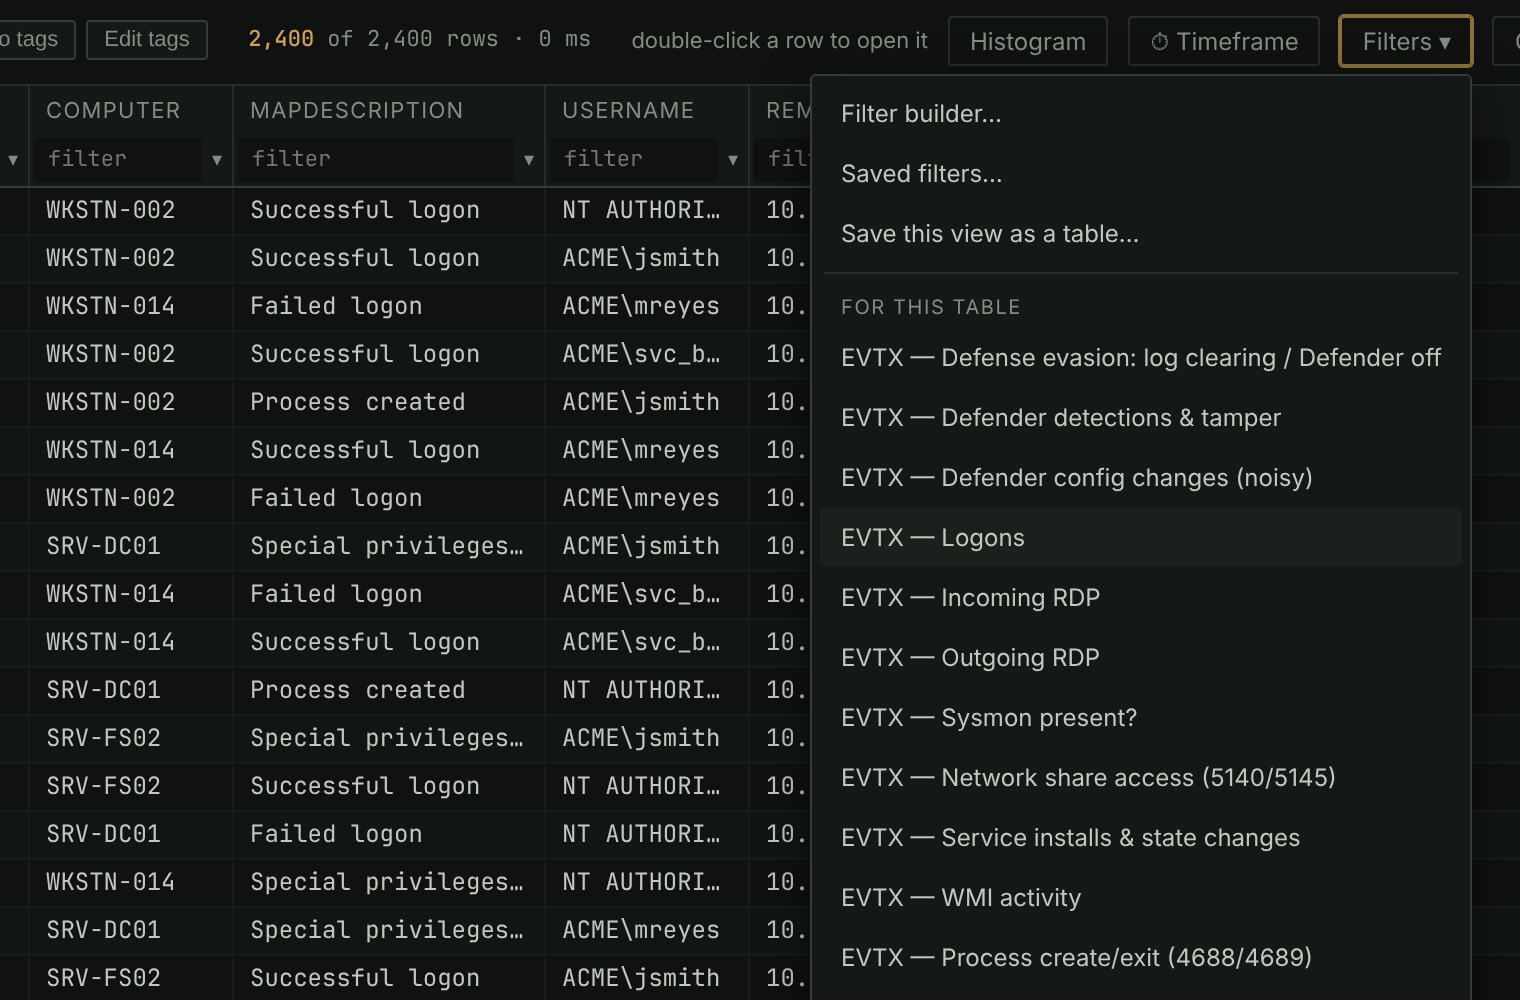
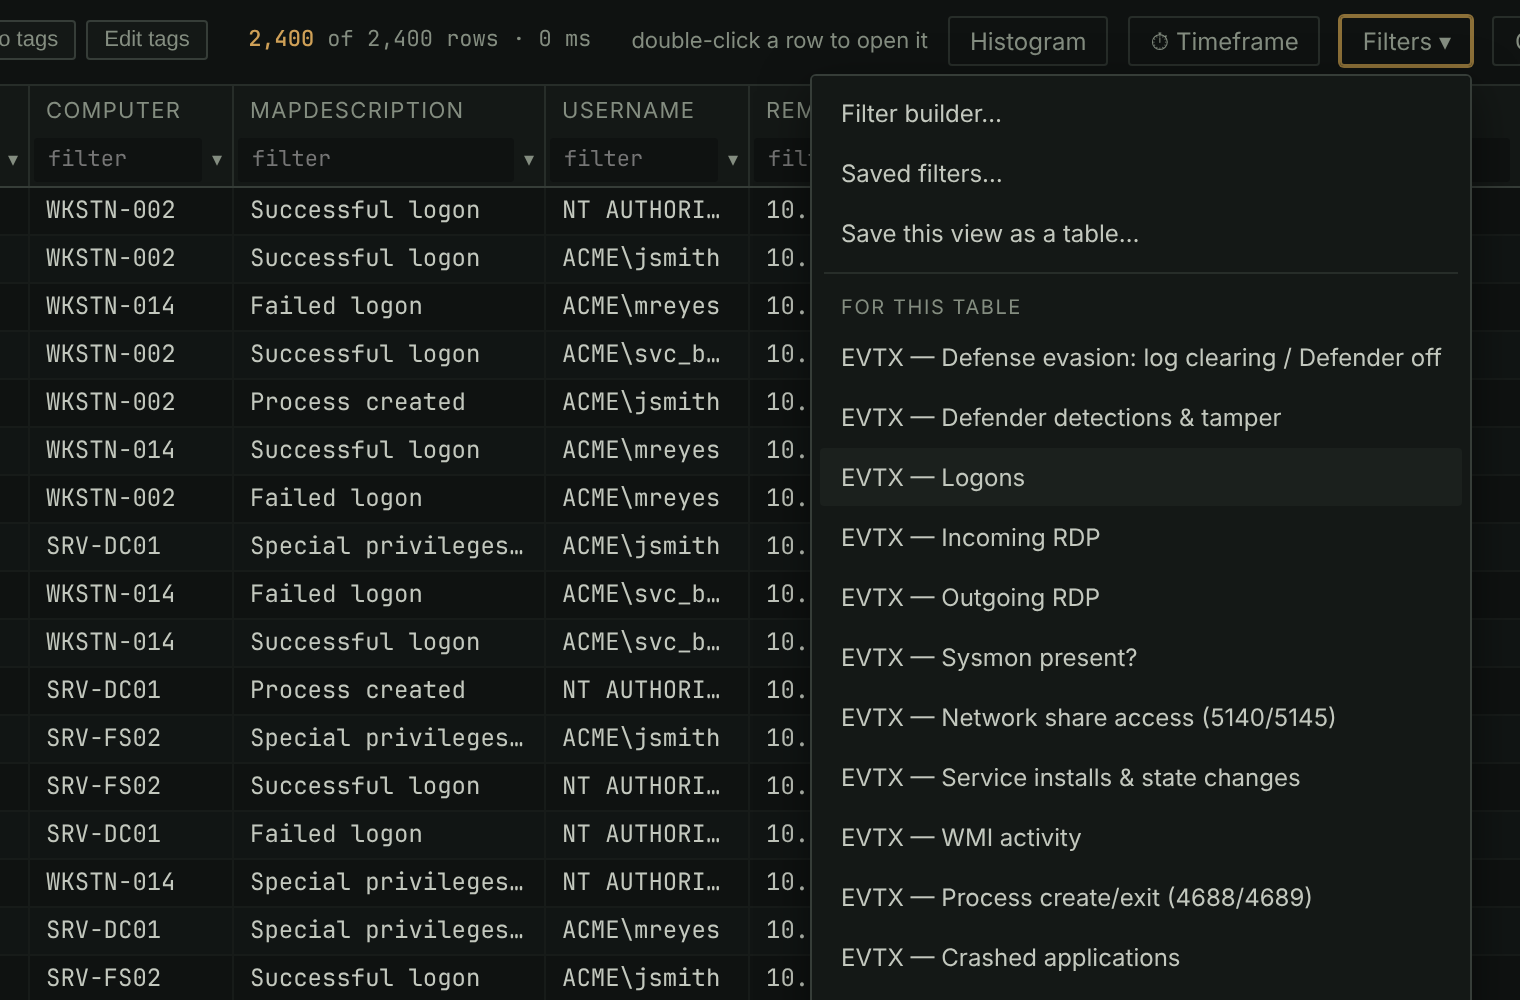
Stop shipping the noisy Defender config-changes filter
"EVTX — Defender config changes (noisy)" leaves the shipped triage set,
and leaves every workspace that still holds it exactly as it shipped.

Dropping it from defaults/filters.json alone would only reach new
installs: every existing workspace was seeded with it long ago, and
seeded filters are ordinary records from then on. So filters.json gains
a `retired` list, the entry moves there unchanged, and
SavedFilters.ensure_seeded removes a copy whose name, columns and
payload still match. One the analyst edited or renamed is theirs and
stays. Each retirement is recorded in the workspace file and runs once,
so a copy imported back later from an older export is kept.

Docs and the site's recordings now count 27 shipped filters, 19 of them
for EvtxECmd.

Claude-Session: https://claude.ai/code/session_01Uy3ebGBfZJJ8w4btrYMHEJ

diff --git a/docs/site/overrides/home.html b/docs/site/overrides/home.html
@@ -57,7 +57,7 @@
         <div class="wn-feature__text">
           <h3>Saved filters</h3>
           <p>Saved once, offered on every table with the same columns.
-            28 ship for EvtxECmd, RECmd and MFTECmd output, and
+            27 ship for EvtxECmd, RECmd and MFTECmd output, and
             <kbd>[</kbd> <kbd>]</kbd> step through them.</p>
           <a class="wn-feature__more" href="{{ 'features/saved-filters/' | url }}">See it in action</a>
         </div>

diff --git a/tests/test_workspace.py b/tests/test_workspace.py
@@ -303,7 +303,7 @@ def _bump_filters(monkeypatch, extra=()):
     from winnow import defaults
     shipped = defaults.filters()
     monkeypatch.setattr(defaults, "filters", lambda: {
-        "version": shipped["version"] + 1,
+        **shipped, "version": shipped["version"] + 1,
         "filters": list(shipped["filters"]) + list(extra)})
 
 
@@ -361,6 +361,88 @@ def test_a_workspace_seeded_before_the_record_existed_is_recorded_at_its_version
     assert "seeded" in json.loads(path.read_text(encoding="utf-8"))
     _bump_filters(monkeypatch)
     assert victim["name"] not in [f["name"] for f in WS.filters.list()]
+
+
+# What a release that TAKES BACK a default does: its entry moves from
+# `filters` to `retired` unchanged, at the same version.
+
+def _retire_filters(monkeypatch, names):
+    from winnow import defaults
+    shipped = defaults.filters()
+    taken = [e for e in shipped["filters"] if e[0] in names]
+    assert len(taken) == len(names)
+    monkeypatch.setattr(defaults, "filters", lambda: {
+        "version": shipped["version"],
+        "filters": [e for e in shipped["filters"] if e[0] not in names],
+        "retired": list(shipped["retired"]) + taken})
+
+
+def test_a_retired_default_filter_leaves_only_where_it_is_untouched(monkeypatch):
+    """Removing a default from the shipped list alone changes nothing for
+    anyone already running Winnow: theirs was seeded long ago. So the
+    untouched copy goes on the next read — but an edited or renamed one
+    is the analyst's filter now, and stays."""
+    before = WS.filters.list()
+    untouched, edited, renamed = before[0], before[1], before[2]
+    WS.filters.update(edited["id"], payload={**edited["payload"], "search": "mine"})
+    WS.filters.update(renamed["id"], name="MY triage")
+
+    _retire_filters(monkeypatch, {untouched["name"], edited["name"], renamed["name"]})
+    names = [f["name"] for f in WS.filters.list()]
+    assert untouched["name"] not in names
+    assert names.count(edited["name"]) == 1
+    assert names.count("MY triage") == 1 and renamed["name"] not in names
+    assert len(names) == len(before) - 1
+
+
+def test_a_retired_default_filter_imported_back_afterwards_stays(monkeypatch):
+    """A retirement runs once per workspace. Importing the filter back from
+    an export made before it is the analyst asking for it, and the next
+    read must not take it away again."""
+    before = WS.filters.list()
+    export = WS.filters.export_all()
+    gone = before[0]["name"]
+
+    _retire_filters(monkeypatch, {gone})
+    assert gone not in [f["name"] for f in WS.filters.list()]
+    assert WS.filters.import_all(export, merge=True) == 1
+    assert [f["name"] for f in WS.filters.list()].count(gone) == 1
+
+
+def test_the_noisy_defender_config_filter_is_retired():
+    """"EVTX — Defender config changes (noisy)" was taken out of the
+    shipped set. A fresh workspace never gets it, and one an earlier
+    release seeded loses its untouched copy on the next read."""
+    import json
+    from winnow import defaults
+
+    name = "EVTX — Defender config changes (noisy)"
+    assert name not in [n for n, _, _ in defaults.filters()["filters"]]
+    assert name not in [f["name"] for f in WS.filters.list()]
+
+    # The workspace as the earlier release left it: the filter as it
+    # shipped, recorded in `seeded`, no retirement handled yet.
+    [(_, cols, payload)] = [r for r in defaults.filters()["retired"] if r[0] == name]
+    path = WS.WORKSPACE_DIR / WS.SavedFilters.FILE
+    data = json.loads(path.read_text(encoding="utf-8"))
+    data.pop("retired")
+    data["filters"].insert(2, {"id": 999, "name": name, "col_names": cols,
+                               "payload": payload, "created_at": "2026-01-01T00:00:00"})
+    data["seeded"].append([name, cols])
+    path.write_text(json.dumps(data), encoding="utf-8")
+
+    after = WS.filters.list()
+    assert name not in [f["name"] for f in after]
+    assert len(after) == len(data["filters"]) - 1
+
+
+def test_no_shipped_filter_is_also_retired():
+    """An entry in both lists would be seeded into a fresh workspace and
+    taken out of every older one — moving it means moving it."""
+    from winnow import defaults
+    shipped = defaults.filters()
+    assert not ({(n, tuple(c)) for n, c, _ in shipped["filters"]}
+                & {(n, tuple(c)) for n, c, _ in shipped["retired"]})
 
 
 def test_tag_template_seeds_ta_first_and_migrates_only_untouched_legacy():

diff --git a/winnow/workspace.py b/winnow/workspace.py
@@ -416,6 +416,33 @@ def _merge_seed_record(data: dict, keys: list[list]) -> list:
     return out
 
 
+def _retire_filters(data: dict, retired: list) -> list | None:
+    """Drops each retired default (defaults.filters()["retired"]) this
+    workspace still holds exactly as it shipped — same name, same column
+    set, same payload — and returns the updated `retired` record, or None
+    when every retirement has been handled here before.
+
+    Only an untouched copy goes: one the analyst renamed or edited is
+    their filter now, the same rule TagTemplate's legacy migration
+    follows. And each retirement runs once per workspace, recorded by
+    name + column set like `seeded`, so a copy imported back afterwards
+    from an older export is the analyst's choice and stays."""
+    record = [k for k in data.get("retired") or [] if isinstance(k, list)]
+    handled = {_freeze(k) for k in record}
+    new = [(name, list(cols), payload) for name, cols, payload in retired
+           if _freeze([name, list(cols)]) not in handled]
+    if not new:
+        return None
+    shipped = {(name, tuple(cols)): payload for name, cols, payload in new}
+
+    def untouched(f: dict) -> bool:
+        key = (f.get("name"), tuple(f.get("col_names") or ()))
+        return key in shipped and f.get("payload") == shipped[key]
+
+    data["filters"] = [f for f in data["filters"] if not untouched(f)]
+    return record + [[name, cols] for name, cols, _ in new]
+
+
 class SavedFilters:
     """Cyclable, named filters — [ and ] in the grid. Every filter carries
     the column-name set it was built for (col_names), which is also what
@@ -430,13 +457,15 @@ class SavedFilters:
         return _read(self.FILE, {"filters": []})["filters"]
 
     def _save(self, items: list[dict], seeded_version: int | None = None,
-              seeded: list | None = None) -> None:
+              seeded: list | None = None, retired: list | None = None) -> None:
         data = _read(self.FILE, {"filters": []})
         data["filters"] = items
         if seeded_version is not None:
             data["seeded_version"] = seeded_version
         if seeded is not None:
             data["seeded"] = seeded
+        if retired is not None:
+            data["retired"] = retired
         _write(self.FILE, data)
 
     def ensure_seeded(self) -> None:
@@ -454,15 +483,21 @@ class SavedFilters:
         that by what is *present* instead — the old rule — put back every
         default the analyst had deleted, and re-added every one they had
         renamed beside the renamed copy, the first time a release bumped
-        the version. See _seed_record for the one-off migration."""
+        the version. See _seed_record for the one-off migration.
+
+        A default the release takes back (`retired`) leaves the workspace
+        here too, while it is still the untouched copy — _retire_filters."""
         from . import defaults
 
         with _LOCK:
             data = _read(self.FILE, {"filters": []})
             shipped = defaults.filters()
+            retired = _retire_filters(data, shipped["retired"])
             keys = [[name, list(cols)] for name, cols, _ in shipped["filters"]]
             done = _seed_record(data, shipped["version"], keys)
             if done is None:
+                if retired is not None:
+                    self._save(data["filters"], retired=retired)
                 return
             items = data["filters"]
             present = {(r["name"], tuple(r["col_names"])) for r in items}
@@ -474,7 +509,7 @@ class SavedFilters:
                               "col_names": list(cols), "payload": payload,
                               "created_at": _now()})
             self._save(items, seeded_version=max(shipped["version"], data.get("seeded_version", 0)),
-                       seeded=_merge_seed_record(data, keys))
+                       seeded=_merge_seed_record(data, keys), retired=retired)
 
     @staticmethod
     def _normalize_payload(rec: dict) -> bool:

diff --git a/winnow/defaults/__init__.py b/winnow/defaults/__init__.py
@@ -28,9 +28,12 @@ Both files carry a `version`. Bump it when you add entries: workspace's
 in the workspace file) and on a bump adds only the ones it never has, so
 an analyst's deleted default stays deleted and a renamed one is never
 re-added beside itself. Renaming an entry HERE therefore reads as a new
-default to every workspace — which is what it is. Never edit an
-existing header set in place — files produced by an older release of the
-tool are still out there and still have to match.
+default to every workspace — which is what it is. To take a filter
+back, move its entry from `filters` to `retired` unchanged; that needs
+no bump, since workspaces record retirements on their own (`retired`,
+see SavedFilters.ensure_seeded). Never edit an existing header set in
+place — files produced by an older release of the tool are still out
+there and still have to match.
 """
 
 from __future__ import annotations
@@ -176,21 +179,32 @@ def profiles() -> list[dict]:
 
 @lru_cache(maxsize=1)
 def filters() -> dict:
-    """{"version": int, "filters": [(name, [columns], payload), ...]}.
+    """{"version": int, "filters": [(name, [columns], payload), ...],
+    "retired": [(name, [columns], payload), ...]}.
 
     `header_set` is resolved to that set's column list here, so a filter
-    and the table it targets cannot describe different columns."""
+    and the table it targets cannot describe different columns.
+
+    `retired` is the defaults an earlier release shipped and this one
+    takes back, each exactly as it shipped: SavedFilters.ensure_seeded
+    removes a workspace's copy only while it still matches, so one the
+    analyst edited or renamed is theirs and stays."""
     data = _load(FILTERS_FILE)
     by_name = dict(headers()["nicknames"])
-    out = []
-    for i, rec in enumerate(data.get("filters") or []):
-        name, hs, payload = rec.get("name"), rec.get("header_set"), rec.get("payload")
-        if not name or not payload:
-            raise DefaultsError(f"filters.json entry {i} needs a name and a payload")
-        cols = by_name.get(hs)
-        if cols is None:
-            raise DefaultsError(
-                f"filter {name!r} targets header set {hs!r}, which headers.json "
-                f"does not define — a filter bound to nothing would never apply")
-        out.append((name, list(cols), payload))
-    return {"version": int(data.get("version") or 0), "filters": out}
+
+    def resolve(key: str) -> list:
+        out = []
+        for i, rec in enumerate(data.get(key) or []):
+            name, hs, payload = rec.get("name"), rec.get("header_set"), rec.get("payload")
+            if not name or not payload:
+                raise DefaultsError(f"filters.json {key} entry {i} needs a name and a payload")
+            cols = by_name.get(hs)
+            if cols is None:
+                raise DefaultsError(
+                    f"filter {name!r} targets header set {hs!r}, which headers.json "
+                    f"does not define — a filter bound to nothing would never apply")
+            out.append((name, list(cols), payload))
+        return out
+
+    return {"version": int(data.get("version") or 0), "filters": resolve("filters"),
+            "retired": resolve("retired")}

diff --git a/docs/wiki/Filtering-and-searching.md b/docs/wiki/Filtering-and-searching.md
@@ -145,11 +145,11 @@ Applying a saved filter replaces the builder's conditions, the search and the gr
 
 ### Shipped triage filters
 
-Winnow ships 28 ready-made triage filters for EvtxECmd, RECmd and MFTECmd output. They are added to your saved filters the first time Winnow runs, and they are offered like any other saved filter: nothing is applied until you pick one. If you delete or rename one, it stays that way.
+Winnow ships 27 ready-made triage filters for EvtxECmd, RECmd and MFTECmd output. They are added to your saved filters the first time Winnow runs, and they are offered like any other saved filter: nothing is applied until you pick one. If you delete or rename one, it stays that way. When an update stops shipping one, it leaves your list too, unless you edited or renamed it.
 
 | Column set | Filters |
 | --- | --- |
-| Event logs (EvtxECmd) | 20 filters named `EVTX — …`: log clearing and Defender off; Defender detections and tamper; Defender config changes; logons; incoming and outgoing RDP; Sysmon present; network share access (5140/5145); service installs; WMI; process create/exit (4688/4689); crashed applications; user and group changes; PowerShell; firewall rule changes; scheduled tasks; BITS transfers; Group Policy (client and DC); system shutdowns |
+| Event logs (EvtxECmd) | 19 filters named `EVTX — …`: log clearing and Defender off; Defender detections and tamper; logons; incoming and outgoing RDP; Sysmon present; network share access (5140/5145); service installs; WMI; process create/exit (4688/4689); crashed applications; user and group changes; PowerShell; firewall rule changes; scheduled tasks; BITS transfers; Group Policy (client and DC); system shutdowns |
 | Registry (RECmd batch) | 5 filters named `Registry — …`: basic system info; audit and PowerShell policy; TypedPaths / RecentDocs; UserAssist / BAM; Run keys (autoruns) |
 | NTFS $MFT (MFTECmd) | 3 filters named `MFT — …`: executables in odd places; Startup folder and run-key paths; a suspicious tool sweep that uses Advanced search |
 

diff --git a/README.md b/README.md
@@ -85,7 +85,7 @@ contains, `!svchost` doesn't, `=4624` exact, `^C:\Users` starts with,
 `>1000` greater than, `/re/` regex, `a|b|c` any of, `""` empty, `*` not
 empty. The `▾` opens that column's distinct values with counts,
 Excel-style. A search box above the grid searches whole rows at once,
-and the timeframe filter and histogram narrow by time. Twenty-eight
+and the timeframe filter and histogram narrow by time. Twenty-seven
 ready-made triage filters ship for EvtxECmd, RECmd and MFTECmd output, so
 when an EvtxECmd export opens, Logons, RDP, Defender tampering, service
 installs and scheduled tasks are one click away in **Filters ▾**.

diff --git a/docs/wiki/Cases-and-importing.md b/docs/wiki/Cases-and-importing.md
@@ -692,7 +692,7 @@ Recognition gets you:
 - **A name** in place of a raw column list, in the **Filters** menu and in
   **Merge tables…**.
 - **Shipped triage filters** that light up when a matching table opens:
-  twenty for EvtxECmd (logons, RDP, Defender tampering, services, scheduled
+  nineteen for EvtxECmd (logons, RDP, Defender tampering, services, scheduled
   tasks…), five for RECmd batch output, three for MFTECmd `$MFT`. See
   [Filtering and searching](Filtering-and-searching.md).
 - **Timeline summaries**: a tagged row reads as one line ("Special privileges

diff --git a/docs/site/features/saved-filters.md b/docs/site/features/saved-filters.md
@@ -1,7 +1,7 @@
 # Saved filters
 
 A filter you build once is offered again on every table with the same
-columns, in this case and the next. Winnow ships 28 of them for EvtxECmd,
+columns, in this case and the next. Winnow ships 27 of them for EvtxECmd,
 RECmd and MFTECmd output, so a fresh export has a triage set before you
 have saved anything.
 
